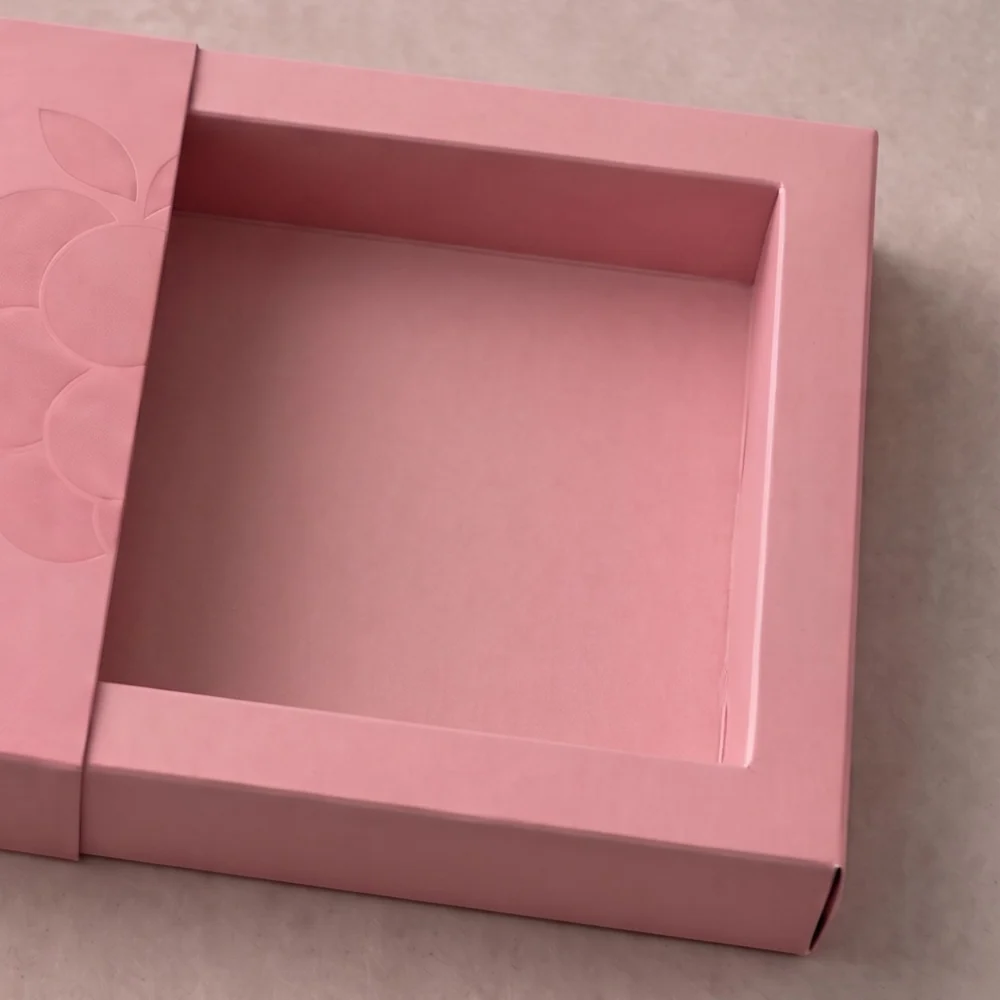
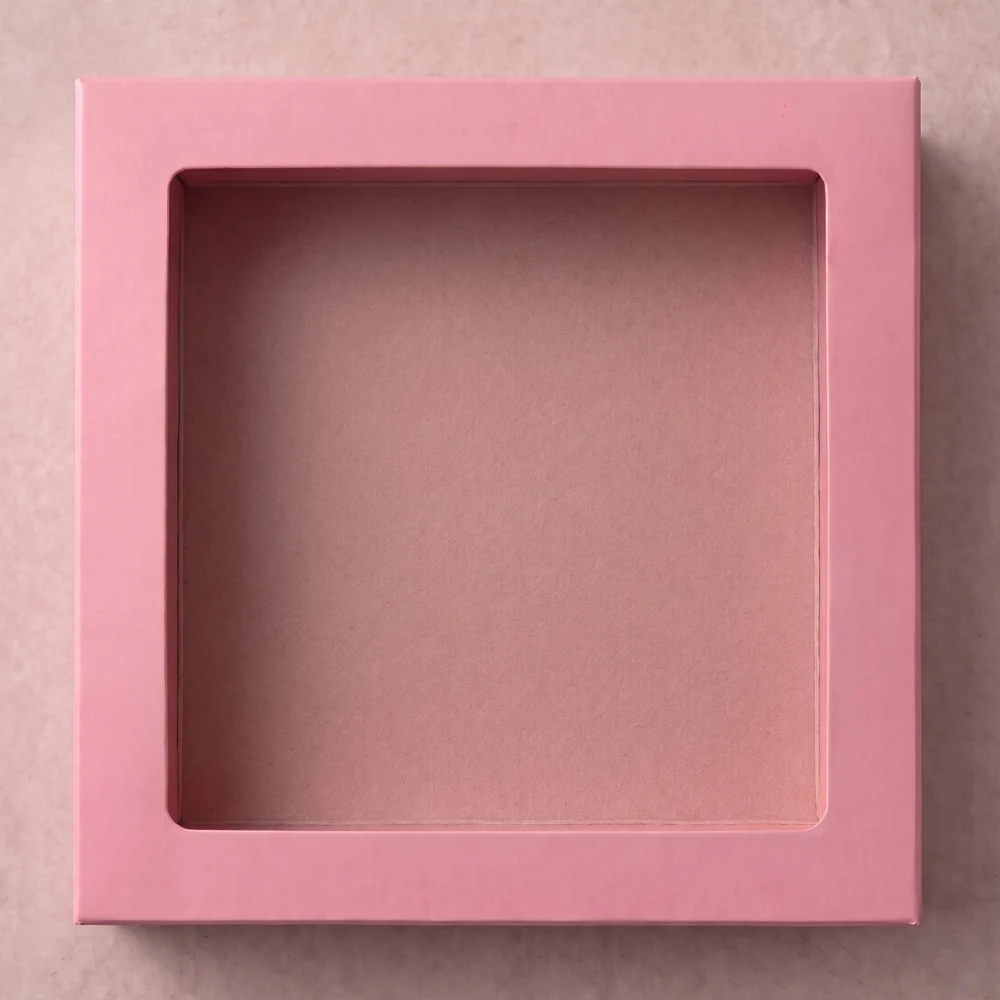
Store: build-your-box from real photographs, nothing cut out

diff --git a/store/sobrat.html b/store/sobrat.html
@@ -6,7 +6,7 @@
 <meta name="robots" content="noindex,nofollow">
 <title>Соберите свою коробку — Зефирная симфония</title>
 <meta name="description" content="Соберите коробку из девяти зефиров: малина, чёрная смородина, клубника, яблоко с корицей.">
-<link rel="stylesheet" href="s.css?v=3b5ef534">
+<link rel="stylesheet" href="s.css?v=ffe31f7b">
 </head>
 <body>
 <p class="ann">Доставка по всей России · три коробки — «Ассорти» в подарок · <a href="akcii.html">подробнее</a></p>
@@ -19,7 +19,7 @@
 <div class="wrap">
   <p class="crumbs"><a href="index.html">Главная</a><span>/</span><a href="katalog.html">Каталог</a><span>/</span>Своя коробка</p>
   <div class="byo" style="padding:18px 0 70px">
-    <div class="stage photo"><div class="bq"><img src="img/byo-empty.webp" alt="Коробка «Зефирная симфония» выдвинута из футляра: девять свободных мест"><canvas id="bc" role="img" aria-label="Ваша коробка: девять мест"></canvas></div></div>
+    <div class="stage photo"><div class="bq"><img src="img/byo-empty.webp" alt="Коробка сверху: девять свободных мест"><canvas id="bc" role="img" aria-label="Ваша коробка: девять мест"></canvas></div></div>
     <div class="ctl">
       <h1 class="h1">Соберите свою коробку</h1>
       <p class="lead" style="font-size:17px">Девять мест — ваши вкусы. Хоть все малиновые, хоть по два каждого. Нажмите на зефир в коробке, чтобы убрать его.</p>
@@ -60,23 +60,23 @@
   <div class="body"></div>
   <div class="foot" hidden><div class="sum"><span>Итого без доставки</span><b>0 ₽</b></div><a class="btn buy full" href="oformlenie.html">Оформить заказ</a><p class="small centre">Оплата картой, СБП или SberPay на странице банка</p></div>
 </aside>
-<script src="s.js?v=3b5ef534"></script>
+<script src="s.js?v=ffe31f7b"></script>
 <script>
 (function(){
   var cv=document.getElementById('bc'), cx=cv.getContext('2d'), FL=ZS.FL, slots=[null,null,null,null,null,null,null,null,null], t0=[], wim={}, busy=true;
-  var B={"window": [[0.198, 0.111], [0.78, 0.182], [0.741, 0.765], [0.097, 0.686]], "places": [[0.262, 0.345], [0.455, 0.372], [0.648, 0.398], [0.247, 0.525], [0.44, 0.552], [0.635, 0.58], [0.232, 0.7], [0.425, 0.728], [0.62, 0.755]], "scale": [0.186, 0.186, 0.186, 0.195, 0.195, 0.195, 0.204, 0.204, 0.204], "foot": [0.5, 0.7], "wide": 0.66, "flavours": ["malina", "smorodina", "klubnika", "yabloko"]}, btn=document.getElementById('byoadd');
-  /* the pieces: nine cut-out photographs per flavour (a 3x3 sheet); each is laid on its place on the tray's floor */
+  var B={"cell": 260, "size": 1000, "places": [[0.2784, 0.2784], [0.4977, 0.2784], [0.717, 0.2784], [0.2784, 0.4977], [0.4977, 0.4977], [0.717, 0.4977], [0.2784, 0.717], [0.4977, 0.717], [0.717, 0.717]], "radius": 0.1096, "at": {"malina": [[148, 148], [368, 148], [587, 148], [148, 368], [368, 368], [587, 368], [148, 587], [368, 587], [587, 587]], "smorodina": [[148, 148], [368, 148], [587, 148], [148, 368], [368, 368], [587, 368], [148, 587], [368, 587], [587, 587]], "klubnika": [[148, 148], [368, 148], [587, 148], [148, 368], [368, 368], [587, 368], [148, 587], [368, 587], [587, 587]], "yabloko": [[148, 148], [368, 148], [587, 148], [148, 368], [368, 368], [587, 368], [148, 587], [368, 587], [587, 587]]}, "flavours": ["malina", "smorodina", "klubnika", "yabloko"]}, btn=document.getElementById('byoadd');
+  /* the pieces: every flavour is a photograph of the same tray from the same place; a piece is its own place of that
+     photograph, laid over the empty tray (sheet: nine places, 3x3; byo.json says where each goes) */
   FL.forEach(function(f){ var im=new Image(); im.onload=function(){ im._ok=1; busy=true; }; im.src='img/byo-'+f+'.webp'; wim[f]=im; });
   function draw(now){ var S=Math.round(cv.getBoundingClientRect().width*Math.min(devicePixelRatio||1,2)); if(!S) return; if(cv.width!==S){ cv.width=cv.height=S; }
-    cx.clearRect(0,0,S,S); cx.save(); cx.beginPath(); B.window.forEach(function(p,k){ cx[k?'lineTo':'moveTo'](p[0]*S,p[1]*S); }); cx.closePath(); cx.clip(); var any=false;
-    for(var i=0;i<9;i++){ var f=slots[i], px=B.places[i][0]*S, py=B.places[i][1]*S, pw=B.scale[i]*S;
-      if(f===null){ cx.save(); cx.translate(px,py-pw*.1); cx.scale(1,.62); cx.beginPath(); cx.arc(0,0,pw*.36,0,7); cx.setLineDash([S*.006,S*.009]); cx.lineWidth=Math.max(1,S*.002); cx.strokeStyle='rgba(74,16,38,.22)'; cx.stroke(); cx.restore(); continue; }
-      var im=wim[FL[f]], a=Math.max(0,Math.min(1,(now-(t0[i]||0))/420)); if(a<1) any=true; a=a*a*(3-2*a); if(!(im&&im._ok)) { any=true; continue; }
-      /* the soft shadow a piece throws on the tray's floor, away from the light */
-      cx.save(); cx.globalAlpha=a; cx.translate(px+pw*.1,py-pw*.02); cx.scale(1,.5); var g=cx.createRadialGradient(0,0,pw*.1,0,0,pw*.62); g.addColorStop(0,'rgba(74,16,38,.34)'); g.addColorStop(1,'rgba(74,16,38,0)'); cx.fillStyle=g; cx.beginPath(); cx.arc(0,0,pw*.62,0,7); cx.fill(); cx.restore();
-      var C=im.naturalWidth/3, w=pw/B.wide, x=px-w*B.foot[0], y=py-w*B.foot[1]-(1-a)*S*.035;
-      cx.globalAlpha=a; cx.drawImage(im,(i%3)*C,((i-i%3)/3)*C,C,C,x,y,w,w); cx.globalAlpha=1; }
-    cx.restore(); busy=any; }
+    cx.clearRect(0,0,S,S); var any=false, k=S/B.size, C=B.cell;
+    for(var i=0;i<9;i++){ var f=slots[i], px=B.places[i][0]*S, py=B.places[i][1]*S;
+      if(f===null){ cx.beginPath(); cx.arc(px,py,B.radius*S*.62,0,7); cx.setLineDash([S*.008,S*.012]); cx.lineWidth=Math.max(1,S*.0022); cx.strokeStyle='rgba(74,16,38,.2)'; cx.stroke(); cx.setLineDash([]); continue; }
+      var im=wim[FL[f]], at=B.at[FL[f]]&&B.at[FL[f]][i], a=Math.max(0,Math.min(1,(now-(t0[i]||0))/420)); if(a<1) any=true; a=a*a*(3-2*a);
+      if(!(im&&im._ok&&at)){ any=true; continue; }
+      var z=1+(1-a)*.06, w=C*k*z;
+      cx.globalAlpha=a; cx.drawImage(im,(i%3)*C,((i-i%3)/3)*C,C,C,at[0]*k-(w-C*k)/2,at[1]*k-(w-C*k)/2,w,w); cx.globalAlpha=1; }
+    busy=any; }
   (function loop(now){ if(busy) draw(now); requestAnimationFrame(loop); })(performance.now());
   function n(){ return slots.filter(function(s){ return s!==null; }).length; }
   function ui(){ var k=n(); document.getElementById('cn9').textContent=k+' из 9'; document.getElementById('b9').style.width=(k/9*100)+'%';
@@ -86,8 +86,8 @@
   function take(f){ for(var i=8;i>=0;i--) if(slots[i]===f){ slots[i]=null; ui(); return; } }
   document.querySelector('.rows').addEventListener('click',function(e){ var b=e.target.closest('button'); if(!b) return; var f=+b.closest('.r').dataset.f; if(+b.dataset.d>0) put(f); else take(f); });
   cv.addEventListener('click',function(e){ var r=cv.getBoundingClientRect(), x=(e.clientX-r.left)/r.width, y=(e.clientY-r.top)/r.height, best=-1, d=1;
-    for(var i=0;i<9;i++){ var dx=x-B.places[i][0], dy=y-(B.places[i][1]-B.scale[i]*.3), q=Math.sqrt(dx*dx+dy*dy); if(q<d){ d=q; best=i; } }
-    if(best>=0&&d<.11&&slots[best]!==null){ slots[best]=null; ui(); } });
+    for(var i=0;i<9;i++){ var dx=x-B.places[i][0], dy=y-B.places[i][1], q=Math.sqrt(dx*dx+dy*dy); if(q<d){ d=q; best=i; } }
+    if(best>=0&&d<B.radius*1.15&&slots[best]!==null){ slots[best]=null; ui(); } });
   document.getElementById('rnd').addEventListener('click',function(){ for(var i=0;i<9;i++) if(slots[i]===null){ slots[i]=Math.floor(Math.random()*4); t0[i]=performance.now()+i*60; } ui(); });
   document.getElementById('clr').addEventListener('click',function(){ slots=slots.map(function(){ return null; }); ui(); });
   var PRE={as:[0,0,0,2,2,1,1,3,3],half:[0,0,0,0,0,2,2,2,2],mono:[0,0,0,0,0,0,0,0,0]};

diff --git a/store/podarki-kompaniyam.html b/store/podarki-kompaniyam.html
@@ -6,7 +6,7 @@
 <meta name="robots" content="noindex,nofollow">
 <title>Подарки компаниям — Зефирная симфония</title>
 <meta name="description" content="Корпоративные подарки: зефир ручной работы с открытками от вашей компании. Оплата онлайн или по счёту.">
-<link rel="stylesheet" href="s.css?v=3b5ef534">
+<link rel="stylesheet" href="s.css?v=ffe31f7b">
 </head>
 <body>
 <p class="ann">Доставка по всей России · три коробки — «Ассорти» в подарок · <a href="akcii.html">подробнее</a></p>
@@ -80,7 +80,7 @@
   <div class="body"></div>
   <div class="foot" hidden><div class="sum"><span>Итого без доставки</span><b>0 ₽</b></div><a class="btn buy full" href="oformlenie.html">Оформить заказ</a><p class="small centre">Оплата картой, СБП или SberPay на странице банка</p></div>
 </aside>
-<script src="s.js?v=3b5ef534"></script>
+<script src="s.js?v=ffe31f7b"></script>
 <script>
 document.getElementById('corp').addEventListener('submit',function(e){ e.preventDefault(); if(!this.checkValidity()){ this.reportValidity(); return; } this.hidden=true; var d=document.getElementById('corpok'); d.hidden=false; d.scrollIntoView({block:'center'}); });
 </script>

diff --git a/store/spasibo.html b/store/spasibo.html
@@ -6,7 +6,7 @@
 <meta name="robots" content="noindex,nofollow">
 <title>Спасибо за заказ — Зефирная симфония</title>
 <meta name="description" content="Спасибо за заказ.">
-<link rel="stylesheet" href="s.css?v=3b5ef534">
+<link rel="stylesheet" href="s.css?v=ffe31f7b">
 </head>
 <body>
 <p class="ann">Доставка по всей России · три коробки — «Ассорти» в подарок · <a href="akcii.html">подробнее</a></p>
@@ -59,7 +59,7 @@
   <div class="body"></div>
   <div class="foot" hidden><div class="sum"><span>Итого без доставки</span><b>0 ₽</b></div><a class="btn buy full" href="oformlenie.html">Оформить заказ</a><p class="small centre">Оплата картой, СБП или SberPay на странице банка</p></div>
 </aside>
-<script src="s.js?v=3b5ef534"></script>
+<script src="s.js?v=ffe31f7b"></script>
 <script>
 (function(){ var o=null; try{ o=JSON.parse(localStorage.getItem('zs-order')||'null'); }catch(e){}
   var $=function(i){ return document.getElementById(i); }; if(!o){ $('tyorder').hidden=true; return; }

diff --git a/store/smorodina.html b/store/smorodina.html
@@ -6,7 +6,7 @@
 <meta name="robots" content="noindex,nofollow">
 <title>Чёрная смородина — зефир ручной работы — Зефирная симфония</title>
 <meta name="description" content="Чёрная смородина: нежная, из спелых ягод. Зефир ручной работы, 9 шт, 360 г, 750 ₽. Доставка по всей России.">
-<link rel="stylesheet" href="s.css?v=3b5ef534">
+<link rel="stylesheet" href="s.css?v=ffe31f7b">
 </head>
 <body>
 <p class="ann">Доставка по всей России · три коробки — «Ассорти» в подарок · <a href="akcii.html">подробнее</a></p>
@@ -77,6 +77,6 @@
   <div class="body"></div>
   <div class="foot" hidden><div class="sum"><span>Итого без доставки</span><b>0 ₽</b></div><a class="btn buy full" href="oformlenie.html">Оформить заказ</a><p class="small centre">Оплата картой, СБП или SberPay на странице банка</p></div>
 </aside>
-<script src="s.js?v=3b5ef534"></script>
+<script src="s.js?v=ffe31f7b"></script>
 </body>
 </html>

diff --git a/store/yabloko.html b/store/yabloko.html
@@ -6,7 +6,7 @@
 <meta name="robots" content="noindex,nofollow">
 <title>Яблоко с корицей — зефир ручной работы — Зефирная симфония</title>
 <meta name="description" content="Яблоко с корицей: тепло и пряность. Зефир ручной работы, 9 шт, 360 г, 750 ₽. Доставка по всей России.">
-<link rel="stylesheet" href="s.css?v=3b5ef534">
+<link rel="stylesheet" href="s.css?v=ffe31f7b">
 </head>
 <body>
 <p class="ann">Доставка по всей России · три коробки — «Ассорти» в подарок · <a href="akcii.html">подробнее</a></p>
@@ -77,6 +77,6 @@
   <div class="body"></div>
   <div class="foot" hidden><div class="sum"><span>Итого без доставки</span><b>0 ₽</b></div><a class="btn buy full" href="oformlenie.html">Оформить заказ</a><p class="small centre">Оплата картой, СБП или SberPay на странице банка</p></div>
 </aside>
-<script src="s.js?v=3b5ef534"></script>
+<script src="s.js?v=ffe31f7b"></script>
 </body>
 </html>

diff --git a/store/katalog.html b/store/katalog.html
@@ -6,7 +6,7 @@
 <meta name="robots" content="noindex,nofollow">
 <title>Каталог — Зефирная симфония</title>
 <meta name="description" content="Зефир ручной работы: яблоко с корицей, клубника, малина, чёрная смородина, Ассорти и своя коробка. 750 ₽ за коробку из 9 штук.">
-<link rel="stylesheet" href="s.css?v=3b5ef534">
+<link rel="stylesheet" href="s.css?v=ffe31f7b">
 </head>
 <body>
 <p class="ann">Доставка по всей России · три коробки — «Ассорти» в подарок · <a href="akcii.html">подробнее</a></p>
@@ -84,6 +84,6 @@
   <div class="body"></div>
   <div class="foot" hidden><div class="sum"><span>Итого без доставки</span><b>0 ₽</b></div><a class="btn buy full" href="oformlenie.html">Оформить заказ</a><p class="small centre">Оплата картой, СБП или SberPay на странице банка</p></div>
 </aside>
-<script src="s.js?v=3b5ef534"></script>
+<script src="s.js?v=ffe31f7b"></script>
 </body>
 </html>

diff --git a/store/assorti.html b/store/assorti.html
@@ -6,7 +6,7 @@
 <meta name="robots" content="noindex,nofollow">
 <title>Ассорти — зефир ручной работы — Зефирная симфония</title>
 <meta name="description" content="Ассорти: четыре вкуса в одной коробке. Зефир ручной работы, 9 шт, 360 г, 750 ₽. Доставка по всей России.">
-<link rel="stylesheet" href="s.css?v=3b5ef534">
+<link rel="stylesheet" href="s.css?v=ffe31f7b">
 </head>
 <body>
 <p class="ann">Доставка по всей России · три коробки — «Ассорти» в подарок · <a href="akcii.html">подробнее</a></p>
@@ -77,6 +77,6 @@
   <div class="body"></div>
   <div class="foot" hidden><div class="sum"><span>Итого без доставки</span><b>0 ₽</b></div><a class="btn buy full" href="oformlenie.html">Оформить заказ</a><p class="small centre">Оплата картой, СБП или SberPay на странице банка</p></div>
 </aside>
-<script src="s.js?v=3b5ef534"></script>
+<script src="s.js?v=ffe31f7b"></script>
 </body>
 </html>

diff --git a/store/klubnika.html b/store/klubnika.html
@@ -6,7 +6,7 @@
 <meta name="robots" content="noindex,nofollow">
 <title>Клубника — зефир ручной работы — Зефирная симфония</title>
 <meta name="description" content="Клубника: мягкая ягодная сладость. Зефир ручной работы, 9 шт, 360 г, 750 ₽. Доставка по всей России.">
-<link rel="stylesheet" href="s.css?v=3b5ef534">
+<link rel="stylesheet" href="s.css?v=ffe31f7b">
 </head>
 <body>
 <p class="ann">Доставка по всей России · три коробки — «Ассорти» в подарок · <a href="akcii.html">подробнее</a></p>
@@ -77,6 +77,6 @@
   <div class="body"></div>
   <div class="foot" hidden><div class="sum"><span>Итого без доставки</span><b>0 ₽</b></div><a class="btn buy full" href="oformlenie.html">Оформить заказ</a><p class="small centre">Оплата картой, СБП или SberPay на странице банка</p></div>
 </aside>
-<script src="s.js?v=3b5ef534"></script>
+<script src="s.js?v=ffe31f7b"></script>
 </body>
 </html>

diff --git a/store/malina.html b/store/malina.html
@@ -6,7 +6,7 @@
 <meta name="robots" content="noindex,nofollow">
 <title>Малина — зефир ручной работы — Зефирная симфония</title>
 <meta name="description" content="Малина: яркая ягодная кислинка. Зефир ручной работы, 9 шт, 360 г, 750 ₽. Доставка по всей России.">
-<link rel="stylesheet" href="s.css?v=3b5ef534">
+<link rel="stylesheet" href="s.css?v=ffe31f7b">
 </head>
 <body>
 <p class="ann">Доставка по всей России · три коробки — «Ассорти» в подарок · <a href="akcii.html">подробнее</a></p>
@@ -77,6 +77,6 @@
   <div class="body"></div>
   <div class="foot" hidden><div class="sum"><span>Итого без доставки</span><b>0 ₽</b></div><a class="btn buy full" href="oformlenie.html">Оформить заказ</a><p class="small centre">Оплата картой, СБП или SberPay на странице банка</p></div>
 </aside>
-<script src="s.js?v=3b5ef534"></script>
+<script src="s.js?v=ffe31f7b"></script>
 </body>
 </html>

diff --git a/store/akcii.html b/store/akcii.html
@@ -6,7 +6,7 @@
 <meta name="robots" content="noindex,nofollow">
 <title>Акции — три коробки, четвёртая в подарок — Зефирная симфония</title>
 <meta name="description" content="Три коробки зефира — «Ассорти» в подарок. Подарок появляется в корзине сам.">
-<link rel="stylesheet" href="s.css?v=3b5ef534">
+<link rel="stylesheet" href="s.css?v=ffe31f7b">
 </head>
 <body>
 <p class="ann">Доставка по всей России · три коробки — «Ассорти» в подарок · <a href="akcii.html">подробнее</a></p>
@@ -65,6 +65,6 @@
   <div class="body"></div>
   <div class="foot" hidden><div class="sum"><span>Итого без доставки</span><b>0 ₽</b></div><a class="btn buy full" href="oformlenie.html">Оформить заказ</a><p class="small centre">Оплата картой, СБП или SberPay на странице банка</p></div>
 </aside>
-<script src="s.js?v=3b5ef534"></script>
+<script src="s.js?v=ffe31f7b"></script>
 </body>
 </html>

diff --git a/store/index.html b/store/index.html
@@ -6,7 +6,7 @@
 <meta name="robots" content="noindex,nofollow">
 <title>Зефирная симфония — зефир ручной работы из Пензы (предпросмотр)</title>
 <meta name="description" content="Зефир ручной работы из настоящих ягод, без красителей. Пять вкусов, доставка по всей России.">
-<link rel="stylesheet" href="s.css?v=3b5ef534">
+<link rel="stylesheet" href="s.css?v=ffe31f7b">
 </head>
 <body>
 <main id="main">
@@ -122,7 +122,7 @@
   <div class="body"></div>
   <div class="foot" hidden><div class="sum"><span>Итого без доставки</span><b>0 ₽</b></div><a class="btn buy full" href="oformlenie.html">Оформить заказ</a><p class="small centre">Оплата картой, СБП или SberPay на странице банка</p></div>
 </aside>
-<script src="s.js?v=3b5ef534"></script>
+<script src="s.js?v=ffe31f7b"></script>
 <script>
 /* the intro: the scroll pipes one zefir, then the knife opens it. The only scroll-driven part of the store. */
 (function(){

diff --git a/store/o-nas.html b/store/o-nas.html
@@ -6,7 +6,7 @@
 <meta name="robots" content="noindex,nofollow">
 <title>О нас — Зефирная симфония</title>
 <meta name="description" content="Семейное дело из Пензы: зефир ручной работы из пензенских ягод и белка с собственной птицефабрики.">
-<link rel="stylesheet" href="s.css?v=3b5ef534">
+<link rel="stylesheet" href="s.css?v=ffe31f7b">
 </head>
 <body>
 <p class="ann">Доставка по всей России · три коробки — «Ассорти» в подарок · <a href="akcii.html">подробнее</a></p>
@@ -68,6 +68,6 @@
   <div class="body"></div>
   <div class="foot" hidden><div class="sum"><span>Итого без доставки</span><b>0 ₽</b></div><a class="btn buy full" href="oformlenie.html">Оформить заказ</a><p class="small centre">Оплата картой, СБП или SberPay на странице банка</p></div>
 </aside>
-<script src="s.js?v=3b5ef534"></script>
+<script src="s.js?v=ffe31f7b"></script>
 </body>
 </html>
